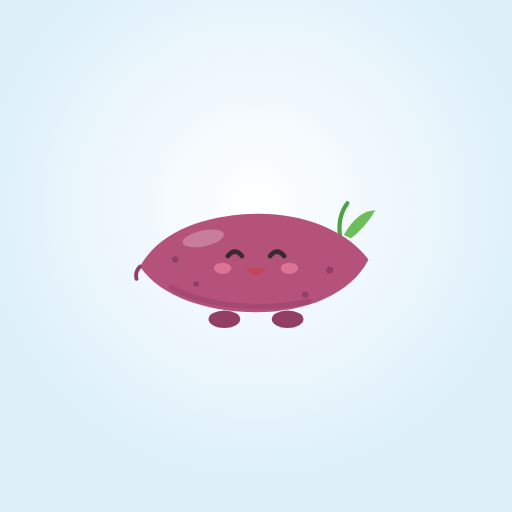
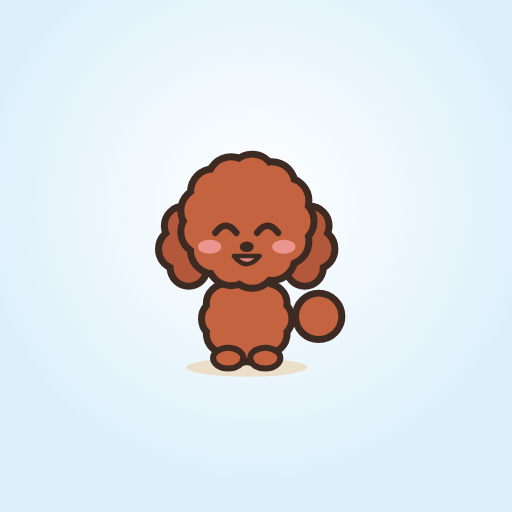
おいもくん・マシュマロくんを公式デザイン（プードル）に描き直し
Claude-Session: https://claude.ai/code/session_01S4FkaDw1kxtm7ZvBJrjLmU

Changed region(s): [[0.25, 0.2812, 0.75, 0.75]]

diff --git a/kentee/buddy.js b/kentee/buddy.js
@@ -1,50 +1,62 @@
-// おイモくん・マシュマロくん（家計簿ケンティーと伸びしろ診断で共通のキャラクター）
+// おいもくん（茶色のトイプードル）・マシュマロくん（白いプードル）。家計簿ケンティーと伸びしろ診断で共通
 (function () {
   "use strict";
-  function face(cx, cy, mood, gap) {
-    var l = cx - gap, r = cx + gap, eyes, mouth;
-    if (mood === "happy") {
-      eyes = '<path d="M' + (l - 4) + ' ' + cy + ' q4 -5 8 0 M' + (r - 4) + ' ' + cy + ' q4 -5 8 0" fill="none" stroke="#3A2A2F" stroke-width="2.6" stroke-linecap="round"/>';
-      mouth = '<path d="M' + (cx - 6) + ' ' + (cy + 7) + ' q6 8 12 0 z" fill="#C2455A"/>';
-    } else if (mood === "think") {
-      eyes = '<circle cx="' + l + '" cy="' + cy + '" r="3.2" fill="#3A2A2F"/><circle cx="' + r + '" cy="' + cy + '" r="3.2" fill="#3A2A2F"/>';
-      mouth = '<path d="M' + (cx - 4) + ' ' + (cy + 9) + ' h8" stroke="#3A2A2F" stroke-width="2.4" stroke-linecap="round"/>';
-    } else if (mood === "sleep") {
-      eyes = '<path d="M' + (l - 4) + ' ' + cy + ' q4 4 8 0 M' + (r - 4) + ' ' + cy + ' q4 4 8 0" fill="none" stroke="#3A2A2F" stroke-width="2.4" stroke-linecap="round"/>';
-      mouth = '<ellipse cx="' + cx + '" cy="' + (cy + 9) + '" rx="2.4" ry="2" fill="#3A2A2F"/>';
-    } else {
-      eyes = '<circle cx="' + l + '" cy="' + cy + '" r="3.4" fill="#3A2A2F"/><circle cx="' + r + '" cy="' + cy + '" r="3.4" fill="#3A2A2F"/>' +
-        '<circle cx="' + (l + 1.2) + '" cy="' + (cy - 1.2) + '" r="1.1" fill="#fff"/><circle cx="' + (r + 1.2) + '" cy="' + (cy - 1.2) + '" r="1.1" fill="#fff"/>';
-      mouth = '<path d="M' + (cx - 5) + ' ' + (cy + 7) + ' q2.5 4 5 0 q2.5 4 5 0" fill="none" stroke="#3A2A2F" stroke-width="2.2" stroke-linecap="round" stroke-linejoin="round"/>';
+  var INK = "#3D2A22";
+  // 円の集まりを、外周だけ縁取りした1つのもこもこ形にする（縁取りを先に描き、塗りを上に重ねる）
+  function fluff(circles, fill) {
+    var line = "", body = "";
+    circles.forEach(function (c) {
+      line += '<circle cx="' + c[0] + '" cy="' + c[1] + '" r="' + c[2] + '" fill="' + INK + '" stroke="' + INK + '" stroke-width="6"/>';
+      body += '<circle cx="' + c[0] + '" cy="' + c[1] + '" r="' + c[2] + '" fill="' + fill + '"/>';
+    });
+    return line + body;
+  }
+  function ring(cx, cy, rr, r, n, from, to) {
+    var out = [], a0 = (from || 0) * Math.PI / 180, a1 = (to == null ? 360 : to) * Math.PI / 180;
+    for (var i = 0; i < n; i++) {
+      var a = a0 + (a1 - a0) * i / (to == null ? n : n - 1);
+      out.push([+(cx + rr * Math.cos(a)).toFixed(1), +(cy + rr * Math.sin(a)).toFixed(1), r]);
     }
-    var blush = '<ellipse cx="' + (l - 7) + '" cy="' + (cy + 7) + '" rx="5" ry="3.2" fill="#FF8FA8" opacity=".55"/><ellipse cx="' + (r + 7) + '" cy="' + (cy + 7) + '" rx="5" ry="3.2" fill="#FF8FA8" opacity=".55"/>';
-    return blush + eyes + mouth;
+    return out;
   }
-  // おイモくん：コツコツ記録を見守る、しっかり者のさつまいも
-  function oimo(size, mood) {
+  function face(mood) {
+    var cx = 50, cy = 44, l = 41, r = 59, eyes, mouth;
+    if (mood === "happy") {
+      eyes = '<path d="M' + (l - 4.5) + ' ' + (cy + 1) + ' q4.5 -6 9 0 M' + (r - 4.5) + ' ' + (cy + 1) + ' q4.5 -6 9 0" fill="none" stroke="' + INK + '" stroke-width="2.8" stroke-linecap="round"/>';
+      mouth = '<path d="M44.5 55 q5.5 7 11 0 z" fill="#E08A7E" stroke="' + INK + '" stroke-width="2" stroke-linejoin="round"/>';
+    } else if (mood === "think") {
+      eyes = '<ellipse cx="' + l + '" cy="' + cy + '" rx="3.6" ry="4" fill="' + INK + '"/><ellipse cx="' + r + '" cy="' + cy + '" rx="3.6" ry="4" fill="' + INK + '"/>' +
+        '<path d="M' + (l - 4) + ' ' + (cy - 7) + ' l7 -2.5 M' + (r + 4) + ' ' + (cy - 7) + ' l-7 -2.5" stroke="' + INK + '" stroke-width="2" stroke-linecap="round"/>';
+      mouth = '<path d="M46 56.5 h8" stroke="' + INK + '" stroke-width="2.4" stroke-linecap="round"/>';
+    } else if (mood === "sleep") {
+      eyes = '<path d="M' + (l - 4.5) + ' ' + cy + ' q4.5 4 9 0 M' + (r - 4.5) + ' ' + cy + ' q4.5 4 9 0" fill="none" stroke="' + INK + '" stroke-width="2.6" stroke-linecap="round"/>';
+      mouth = '<path d="M46 55 q2 2.5 4 0 q2 2.5 4 0" fill="none" stroke="' + INK + '" stroke-width="2.2" stroke-linecap="round"/>' +
+        '<text x="70" y="22" font-size="11" font-weight="700" fill="#7AA9C8" font-family="sans-serif">z</text><text x="78" y="13" font-size="8" font-weight="700" fill="#7AA9C8" font-family="sans-serif">z</text>';
+    } else {
+      eyes = '<ellipse cx="' + l + '" cy="' + cy + '" rx="3.8" ry="4.6" fill="' + INK + '"/><ellipse cx="' + r + '" cy="' + cy + '" rx="3.8" ry="4.6" fill="' + INK + '"/>' +
+        '<circle cx="' + (l + 1.3) + '" cy="' + (cy - 1.6) + '" r="1.4" fill="#fff"/><circle cx="' + (r + 1.3) + '" cy="' + (cy - 1.6) + '" r="1.4" fill="#fff"/>';
+      mouth = '<path d="M46 54.5 q2 3 4 0 q2 3 4 0" fill="none" stroke="' + INK + '" stroke-width="2.2" stroke-linecap="round" stroke-linejoin="round"/>';
+    }
+    var nose = '<ellipse cx="50" cy="51" rx="3" ry="2.3" fill="' + INK + '"/>';
+    var blush = '<ellipse cx="34" cy="51" rx="5" ry="3" fill="#F4A3A3" opacity=".8"/><ellipse cx="66" cy="51" rx="5" ry="3" fill="#F4A3A3" opacity=".8"/>';
+    return blush + eyes + nose + mouth;
+  }
+  // プードルの形は共通。色だけ変える
+  function poodle(cls, label, size, mood, c) {
     size = size || 64;
-    return '<svg class="chara oimo" width="' + size + '" height="' + Math.round(size * 0.66) + '" viewBox="0 0 140 92" role="img" aria-label="おイモくん">' +
-      '<path d="M120 34 q8 -14 18 -14 q-6 10 -14 16z" fill="#6DBE5A"/><path d="M118 36 q-2 -12 4 -20" fill="none" stroke="#4FA243" stroke-width="2.4" stroke-linecap="round"/>' +
-      '<path d="M4 52 C16 30 46 22 72 22 C98 22 122 32 134 48 C124 68 98 78 70 78 C44 78 16 70 4 52 Z" fill="#B4527A"/>' +
-      '<path d="M22 64 C40 74 70 78 100 72" fill="none" stroke="#933F63" stroke-width="3" stroke-linecap="round" opacity=".45"/>' +
-      '<ellipse cx="40" cy="36" rx="12" ry="4.5" fill="#fff" opacity=".25" transform="rotate(-12 40 36)"/>' +
-      '<circle cx="112" cy="54" r="2" fill="#933F63"/><circle cx="24" cy="48" r="1.8" fill="#933F63"/><circle cx="98" cy="68" r="1.8" fill="#933F63"/><circle cx="36" cy="62" r="1.6" fill="#933F63"/>' +
-      '<path d="M4 52 q-3 3 -2 7" fill="none" stroke="#933F63" stroke-width="2.2" stroke-linecap="round"/>' +
-      face(70, 46, mood, 12) +
-      '<ellipse cx="52" cy="82" rx="9" ry="5" fill="#933F63"/><ellipse cx="88" cy="82" rx="9" ry="5" fill="#933F63"/>' +
-      '</svg>';
+    var tail = fluff([[81, 81, 8.5]], c.body);
+    var body = fluff([[50, 82, 15]].concat(ring(50, 82, 11, 7, 10)), c.body);
+    var feet = '<ellipse cx="42" cy="99" rx="6.5" ry="4.5" fill="' + c.body + '" stroke="' + INK + '" stroke-width="2.6"/><ellipse cx="58" cy="99" rx="6.5" ry="4.5" fill="' + c.body + '" stroke="' + INK + '" stroke-width="2.6"/>';
+    var ears = fluff([[23, 42, 7], [21, 52, 7.5], [25, 60, 6.5]], c.ear) + fluff([[77, 42, 7], [79, 52, 7.5], [75, 60, 6.5]], c.ear);
+    var head = fluff([[50, 40, 21]].concat(ring(50, 40, 19, 8.5, 13)), c.body);
+    return '<svg class="chara ' + cls + '" width="' + size + '" height="' + size + '" viewBox="8 2 92 106" role="img" aria-label="' + label + '">' +
+      '<ellipse cx="50" cy="103" rx="26" ry="4" fill="#EBD9BC" opacity=".8"/>' +
+      tail + body + feet + ears + head + face(mood) + '</svg>';
   }
-  // マシュマロくん：ふわっと励ます、やさしいマシュマロ
-  function mallow(size, mood) {
-    size = size || 64;
-    return '<svg class="chara mallow" width="' + size + '" height="' + size + '" viewBox="0 0 100 100" role="img" aria-label="マシュマロくん">' +
-      '<rect x="14" y="20" width="72" height="70" rx="30" fill="#FFFDF8" stroke="#E6D6C4" stroke-width="2.5"/>' +
-      '<path d="M22 40 C26 26 40 21 50 21 C60 21 74 26 78 40" fill="none" stroke="#F3E3CF" stroke-width="6" stroke-linecap="round"/>' +
-      '<ellipse cx="30" cy="34" rx="7" ry="4" fill="#fff" transform="rotate(-30 30 34)"/>' +
-      face(50, 56, mood, 11) +
-      '<ellipse cx="34" cy="92" rx="8" ry="4" fill="#E6D6C4"/><ellipse cx="66" cy="92" rx="8" ry="4" fill="#E6D6C4"/>' +
-      '</svg>';
-  }
+  // おいもくん：茶色のトイプードル。コツコツ記録を見守るしっかり者
+  function oimo(size, mood) { return poodle("oimo", "おいもくん", size, mood, { body: "#C4633F", ear: "#B3583A" }); }
+  // マシュマロくん：白いプードル。ふわっと励ますやさしい子
+  function mallow(size, mood) { return poodle("mallow", "マシュマロくん", size, mood, { body: "#FFFEFA", ear: "#ECE7E0" }); }
   function say(who, text, opts) {
     opts = opts || {};
     var art = (who === "oimo" ? oimo : mallow)(opts.size || 56, opts.mood || "normal");

diff --git a/kentee/index.html b/kentee/index.html
@@ -177,7 +177,7 @@ a { color: var(--accent); font-weight: 700; }
 
 .toast { position: fixed; left: 50%; transform: translateX(-50%); bottom: calc(90px + env(safe-area-inset-bottom, 0px)); background: var(--fg); color: var(--bg); padding: 10px 18px; border-radius: 99px; font-size: 0.88rem; z-index: 20; max-width: calc(100% - 32px); }
 .disclaimer { font-size: 0.75rem; color: var(--muted); line-height: 1.7; }
-/* キャラクター（おイモくん・マシュマロくん） */
+/* キャラクター（おいもくん・マシュマロくん） */
 .buddy { display: flex; align-items: flex-end; gap: 10px; }
 .buddy.right { flex-direction: row-reverse; }
 .buddy .chara { flex: none; }
@@ -277,7 +277,7 @@ a { color: var(--accent); font-weight: 700; }
   // ---- ホーム ----
   function homeBuddy(list, rest) {
     var isThisMonth = state.ym === today().slice(0, 7), todayCount = list.filter(function (e) { return e.date === today(); }).length;
-    if (!list.length) return Buddy.say("oimo", "はじめまして、おイモくんだよ。<br>まずは今日使ったお金を1つ記録してみよう！", { mood: "happy" });
+    if (!list.length) return Buddy.say("oimo", "はじめまして、おいもくんだよ。<br>まずは今日使ったお金を1つ記録してみよう！", { mood: "happy" });
     if (rest < 0) return Buddy.say("oimo", "今月は支出が収入を <b>" + yen(-rest) + "</b> こえてるよ。集計で浪費をのぞいてみよう。", { mood: "think" });
     if (isThisMonth && !todayCount) return Buddy.say("oimo", "今日の記録はまだだよ。レシートでも手入力でもOK！", { mood: "normal" });
     if (isThisMonth) return Buddy.say("oimo", "今日も記録できたね！今月は <b>" + yen(rest) + "</b> 残ってるよ。", { mood: "happy" });

diff --git a/kentee/shindan/index.html b/kentee/shindan/index.html
@@ -155,7 +155,7 @@ tr.total td { font-weight: 700; border-bottom: none; }
   .ba, .future { grid-template-columns: 1fr; }
   h1 { font-size: 1.5rem; }
 }
-/* キャラクター（おイモくん・マシュマロくん） */
+/* キャラクター（おいもくん・マシュマロくん） */
 .buddy { display: flex; align-items: flex-end; gap: 10px; }
 .buddy.right { flex-direction: row-reverse; }
 .buddy .chara { flex: none; }
@@ -282,7 +282,7 @@ tr.total td { font-weight: 700; border-bottom: none; }
     var hasDraft = Object.keys(state.answers).length > 0;
     app.innerHTML = header(null) +
       '<div class="card">' +
-      '<div class="cover-band"><div class="cover"><h1 style="padding-bottom:18px">あなたの家計、<br><span class="hl" style="white-space:nowrap">どこに伸びしろ</span><br>がある？</h1><div class="cover-chars">' + Buddy.oimo(96, "happy") + Buddy.mallow(62) + '</div></div></div>' +
+      '<div class="cover-band"><div class="cover"><h1 style="padding-bottom:18px">あなたの家計、<br><span class="hl" style="white-space:nowrap">どこに伸びしろ</span><br>がある？</h1><div class="cover-chars">' + Buddy.oimo(92, "happy") + Buddy.mallow(92) + '</div></div></div>' +
       '<p>1か月の収支と、いくつかの質問への答えから、すでに見直したところや大切にしたい支出は残したまま、まだ見直せそうなところと、毎月の余剰資金をどれだけ増やせるかを一緒に見ていくよ。所要時間は5分くらい。</p>' +
       '<div class="steps">' +
       '<div class="step"><b>1</b><div><h3>あなたのことを教えて</h3><p class="muted">年代や家族構成で、理想の家計バランスは変わるからね</p></div></div>' +
